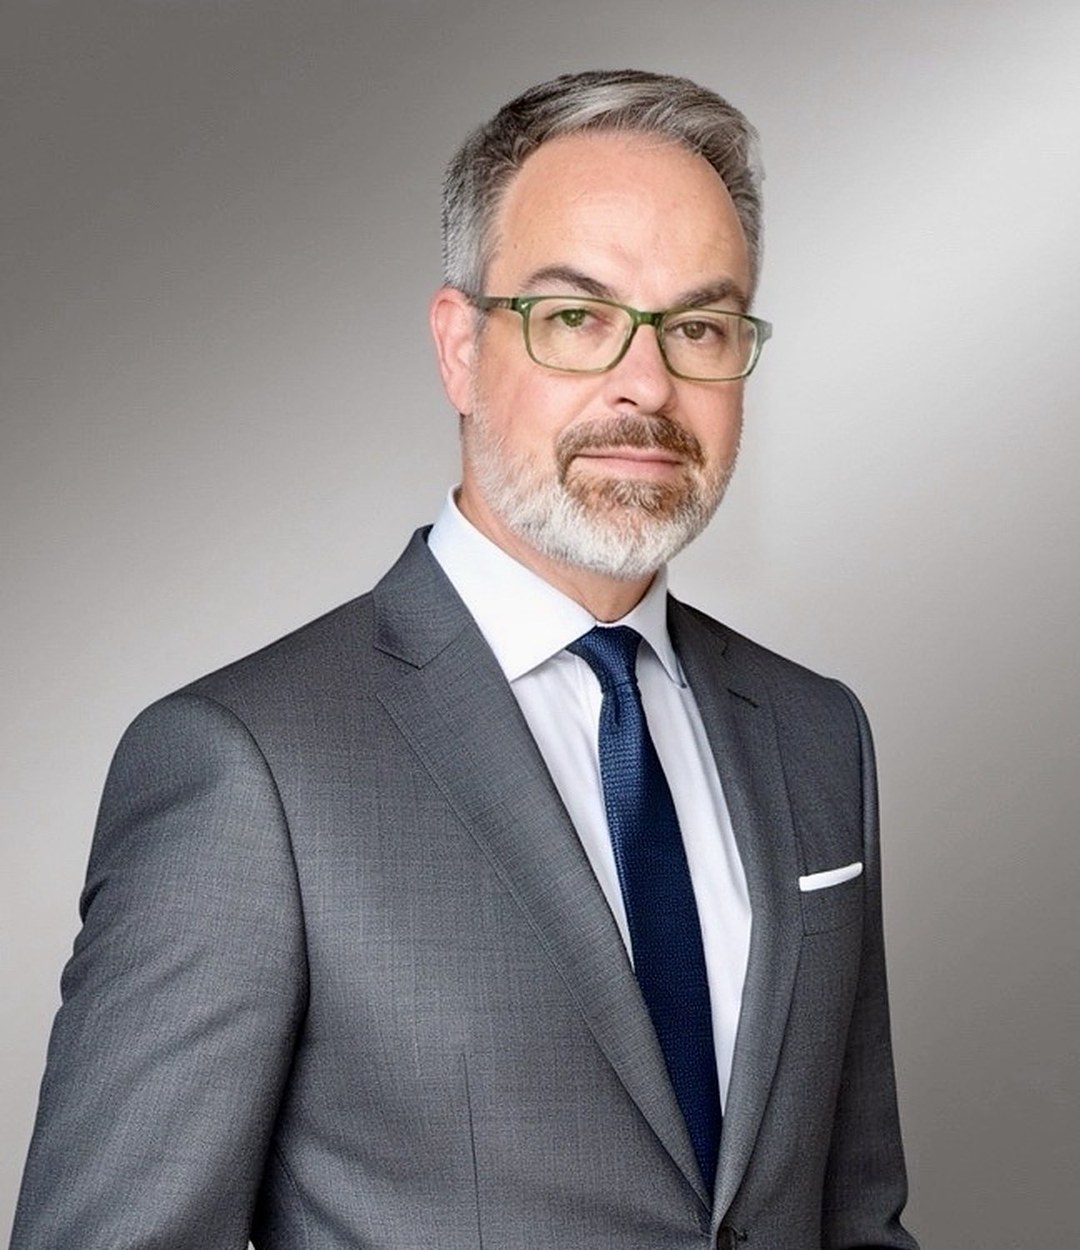
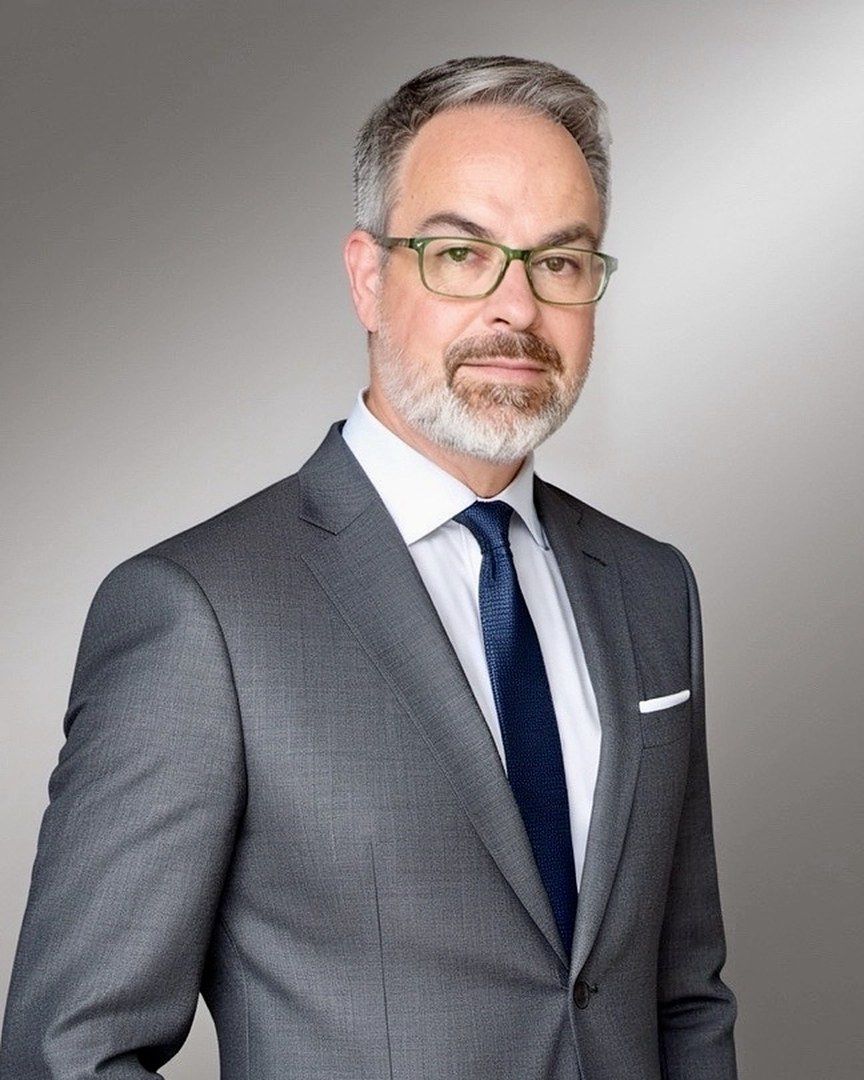
Site update 2026-11-11 18:14: fractional leadership page (v6 layout)

Changed region(s): [[0.0, 0.0306, 0.875, 1.0]]

diff --git a/index.html b/index.html
@@ -7,6 +7,7 @@
 <meta name="description" content="Fractional and interim executive leadership for transformation programs where platform decisions, revenue process and executive accountability have to move together.">
 <link rel="canonical" href="https://oursuccesscoach.com/">
 <link rel="icon" href="assets/our-success-coach-s-mark.svg" type="image/svg+xml">
+<meta name="theme-color" content="#071827">
 <meta property="og:title" content="Our Success Coach | Fractional executive leadership">
 <meta property="og:description" content="The executive your transformation is missing. Fractional and interim leadership for transformation programs.">
 <meta property="og:type" content="website">
@@ -16,93 +17,154 @@
 <link rel="preconnect" href="https://fonts.gstatic.com" crossorigin>
 <link href="https://fonts.googleapis.com/css2?family=Inter:ital,opsz,wght@0,14..32,100..900;1,14..32,100..900&display=swap" rel="stylesheet">
 <style>
-:root{--navy:#071827;--ink:#0A1B2E;--blue:#0D6EFD;--blue-d:#4C8DFF;--soft:#C5D2E0;--dim:#9FB0C3;--rule:rgba(255,255,255,.18)}
+:root{--navy:#071827;--navy2:#0D2A47;--ink:#0A1B2E;--blue:#0D6EFD;--blue-t:#0B63E5;--blue-d:#4C8DFF;--muted:#5F7185;--line:#D9E1EA;--pale:#F3F6F9}
 *{box-sizing:border-box;margin:0;padding:0}
 html{scroll-behavior:smooth}
-body{font-family:Inter,system-ui,-apple-system,"Segoe UI",sans-serif;background:var(--navy);color:#fff;line-height:1.5;-webkit-font-smoothing:antialiased}
+body{font-family:Inter,system-ui,-apple-system,"Segoe UI",sans-serif;color:var(--ink);background:#fff;line-height:1.55;-webkit-font-smoothing:antialiased}
 a{color:inherit}
-a:focus-visible{outline:3px solid var(--blue-d);outline-offset:3px;border-radius:3px}
-.split{display:grid;grid-template-columns:minmax(0,46fr) minmax(0,54fr);min-height:100vh}
-.text{padding:clamp(28px,4.5vh,56px) clamp(28px,4.4vw,72px);display:flex;flex-direction:column;position:relative}
-.logo{height:26px;width:auto;display:block;margin-bottom:18px}
-.main{margin:auto 0;padding:clamp(20px,3vh,36px) 0}
-.kicker{font-size:12.5px;font-weight:700;letter-spacing:.14em;text-transform:uppercase;color:var(--blue-d);display:flex;align-items:center;gap:10px}
-.kicker::before{content:"";width:9px;height:9px;border-radius:50%;background:var(--blue)}
-h1{font-size:clamp(34px,3.9vw,60px);line-height:1.03;font-weight:850;letter-spacing:-.025em;margin:16px 0 18px}
-h1 em{font-style:normal;color:var(--blue-d)}
-.lede{font-size:clamp(15.5px,1.2vw,18px);color:var(--soft);max-width:30em}
-nav{display:flex;gap:6px;margin:clamp(20px,3vh,32px) 0 0;padding:8px 0;border-top:1px solid var(--rule);border-bottom:1px solid var(--rule);font-size:14px;font-weight:650}
-nav a{padding:8px 16px 8px 0;margin-right:10px;text-decoration:none;min-height:40px;display:inline-flex;align-items:center}
-nav a:hover{color:var(--blue-d)}
-.roles{list-style:none;margin-top:clamp(18px,3vh,30px);border-top:1px solid var(--rule)}
-.roles li{display:grid;grid-template-columns:34px 1fr;padding:11px 0;border-bottom:1px solid var(--rule)}
-.roles .n{font-size:12px;font-weight:700;color:var(--blue-d);letter-spacing:.1em;padding-top:3px}
-.roles b{font-weight:700;font-size:16.5px;letter-spacing:-.005em}
-.roles span.d{grid-column:2;color:var(--dim);font-size:14.5px;line-height:1.45}
-.stats{display:grid;grid-template-columns:repeat(4,1fr);gap:14px;margin-top:clamp(18px,3vh,28px)}
-.stats b{display:block;font-size:clamp(24px,2.5vw,36px);font-weight:850;letter-spacing:-.03em;line-height:1;white-space:nowrap}
-.stats b i{font-style:normal;color:var(--blue-d)}
-.stats span{display:block;margin-top:6px;font-size:12.5px;color:var(--dim);line-height:1.35}
-.note{margin-top:10px;font-size:12.5px;color:var(--dim)}
-.cta{display:flex;flex-wrap:wrap;align-items:center;gap:14px 22px;margin-top:clamp(20px,3.2vh,32px)}
-.btn{display:inline-flex;align-items:center;justify-content:center;min-height:48px;padding:0 26px;border-radius:999px;background:var(--blue);color:#fff;font-weight:650;font-size:15px;text-decoration:none;transition:transform .15s,background .15s}
+a:focus-visible,button:focus-visible{outline:3px solid var(--blue);outline-offset:3px}
+.dark a:focus-visible{outline-color:var(--blue-d)}
+.wrap{max-width:1240px;margin:0 auto;padding:0 clamp(20px,4vw,56px)}
+
+/* hero */
+.dark{background:var(--navy);color:#fff;position:relative;overflow:hidden}
+.dark::before{content:"";position:absolute;right:-12%;top:-30%;width:70vw;height:70vw;max-width:900px;max-height:900px;border-radius:50%;background:radial-gradient(circle at 40% 40%,rgba(13,110,253,.28),rgba(13,110,253,0) 62%);pointer-events:none}
+nav{display:flex;align-items:center;justify-content:space-between;padding:26px 0;position:relative}
+nav img{height:26px;width:auto;display:block}
+.btn{display:inline-flex;align-items:center;justify-content:center;min-height:48px;padding:0 26px;border-radius:999px;background:var(--blue);color:#fff;font-weight:650;font-size:15px;text-decoration:none;border:0;transition:transform .15s,background .15s}
 .btn:hover{background:#2B7FFF;transform:translateY(-1px)}
-.cta .c{font-size:15px;color:var(--soft);line-height:1.5}
-.cta .c a{text-decoration:none;font-weight:650;color:#fff}
-.cta .c a:hover{color:var(--blue-d)}
-.legal{font-size:11.5px;line-height:1.5;color:#8496AB;border-top:1px solid var(--rule);padding-top:14px}
-.photo{position:relative;background:#B9BDC2;min-height:56vh}
-.photo img{position:absolute;inset:0;width:100%;height:100%;object-fit:cover;object-position:50% 8%;display:block}
-.photo figcaption{position:absolute;left:clamp(20px,3vw,40px);bottom:clamp(20px,3vw,36px);background:rgba(7,24,39,.86);padding:14px 18px;border-radius:4px;max-width:340px;font-size:13.5px;color:var(--soft);line-height:1.4}
-.photo figcaption b{display:block;color:#fff;font-size:16px;font-weight:700}
-@media (min-width:901px){.photo{position:sticky;top:0;height:100vh;align-self:start}}
-@media (max-width:900px){
- .split{grid-template-columns:1fr}
- .photo{order:-1;min-height:0;height:62vh;max-height:520px}
- .photo img{object-position:50% 10%}
- .text{padding-top:28px}
- .photo{margin-top:0}
+.btn.ghost{background:transparent;border:1.5px solid rgba(255,255,255,.35)}
+.btn.ghost:hover{background:rgba(255,255,255,.08)}
+.hero{display:grid;grid-template-columns:minmax(0,1.6fr) minmax(0,.5fr);gap:clamp(32px,6vw,96px);align-items:center;padding:clamp(28px,5vh,56px) 0 clamp(48px,8vh,80px);position:relative}
+.kicker{font-size:13px;font-weight:700;letter-spacing:.14em;text-transform:uppercase;color:var(--blue-d);display:flex;align-items:center;gap:10px}
+.kicker::before{content:"";width:9px;height:9px;border-radius:50%;background:var(--blue)}
+h1{font-size:clamp(40px,6.4vw,92px);line-height:1.0;font-weight:850;letter-spacing:-.025em;margin:22px 0 26px}
+h1 em{font-style:normal;color:var(--blue-d)}
+.lede{font-size:clamp(17px,1.5vw,21px);color:#C5D2E0;max-width:36em;font-weight:400}
+.ctas{display:flex;flex-wrap:wrap;gap:12px;margin-top:34px}
+.who{justify-self:end;width:100%;max-width:250px}
+.who img{display:block;width:100%;height:auto;aspect-ratio:4/5;object-fit:cover;object-position:50% 12%;border-radius:6px;box-shadow:0 30px 60px -20px rgba(0,0,0,.6)}
+.who p{margin-top:14px;font-size:14px;color:#C5D2E0;line-height:1.45}
+.who b{display:block;color:#fff;font-weight:700;font-size:16px}
+
+/* offer */
+.offer{padding:clamp(56px,9vh,96px) 0 clamp(40px,6vh,64px)}
+.offer h2{font-size:clamp(28px,3.4vw,46px);line-height:1.08;font-weight:800;letter-spacing:-.018em;max-width:20em}
+.offer .sub{color:var(--muted);margin-top:14px;max-width:40em;font-size:18px}
+.roles{display:grid;grid-template-columns:repeat(4,1fr);gap:0;margin-top:44px;border-top:2px solid var(--ink)}
+.role{padding:26px 28px 8px 0}
+.role+.role{padding-left:28px;border-left:1px solid var(--line)}
+.role .n{font-size:13px;font-weight:700;color:var(--blue-t);letter-spacing:.1em}
+.role h3{font-size:21px;line-height:1.2;font-weight:750;letter-spacing:-.01em;margin:10px 0 10px}
+.role p{color:var(--muted);font-size:15.5px}
+
+/* proof */
+.proof{background:var(--pale);padding:clamp(40px,6vh,64px) 0}
+.stats{display:grid;grid-template-columns:repeat(4,1fr);gap:28px}
+.stat b{display:block;font-size:clamp(40px,4.6vw,64px);font-weight:850;letter-spacing:-.03em;line-height:1;color:var(--ink);white-space:nowrap}
+.stat b i{font-style:normal;color:var(--blue-t)}
+.stat span{display:block;margin-top:10px;font-size:15px;color:var(--muted);max-width:15em}
+.note{margin-top:30px;font-size:14px;color:var(--muted)}
+
+/* close */
+.close{padding:clamp(48px,8vh,84px) 0}
+.close .grid{display:grid;grid-template-columns:minmax(0,1.3fr) minmax(0,1fr);gap:clamp(28px,6vw,96px);align-items:center}
+.close h2{font-size:clamp(28px,3.4vw,46px);line-height:1.08;font-weight:800;letter-spacing:-.018em}
+.box{border:1px solid var(--line);border-radius:10px;padding:28px}
+.box a.mail{display:block;font-size:clamp(20px,2vw,26px);font-weight:750;letter-spacing:-.01em;text-decoration:none;color:var(--ink);overflow-wrap:anywhere}
+.box a.mail:hover{color:var(--blue-t)}
+.box .tel{display:block;margin:6px 0 22px;color:var(--muted);text-decoration:none;font-size:17px}
+
+footer{background:var(--navy);color:#9FB0C3;padding:28px 0;font-size:13px;line-height:1.6}
+
+@media (max-width:980px){
+ .roles{grid-template-columns:repeat(2,1fr)}
+ .role:nth-child(3){padding-left:0;border-left:0}
+ .role:nth-child(n+3){border-top:1px solid var(--line);margin-top:18px;padding-top:26px}
+ .stats{grid-template-columns:repeat(2,1fr)}
+}
+@media (max-width:760px){
+ .hero{grid-template-columns:1fr;gap:36px}
+ .who{justify-self:start;max-width:240px}
+ .close .grid{grid-template-columns:1fr}
+ nav .btn{min-height:46px;padding:0 20px}
 }
 @media (max-width:560px){
- .stats{grid-template-columns:repeat(2,1fr);gap:20px 14px}
- .btn{width:100%}
- nav{flex-wrap:wrap}
+ .roles{grid-template-columns:1fr}
+ .role,.role+.role{padding:22px 0 6px;border-left:0}
+ .role+.role{border-top:1px solid var(--line)}
+ .role:nth-child(3){margin-top:0}
+ .role:nth-child(n+3){margin-top:0}
+ .ctas .btn{width:100%}
 }
 @media (prefers-reduced-motion:reduce){*{transition:none!important;scroll-behavior:auto!important}.btn:hover{transform:none}}
 </style>
 </head>
 <body>
-<div class="split">
- <section class="text">
-  <a href="#top" aria-label="Our Success Coach, home" style="align-self:flex-start"><img class="logo" src="assets/our-success-coach-wordmark-white.svg" alt="Our Success Coach"></a>
-  <div class="main" id="top">
-   <p class="kicker">Fractional executive leadership</p>
-   <h1>The executive your transformation is <em>missing.</em></h1>
-   <p class="lede">Fractional and interim leadership for programs where platform decisions, revenue process and executive accountability have to move together. Not staff augmentation. Not another layer of project management.</p>
-   <ul class="roles" id="roles">
-    <li><span class="n">01</span><b>Fractional CIO or CISO</b></li>
-    <li><span class="n">02</span><b>Transformation executive</b></li>
-    <li><span class="n">03</span><b>Program governance lead</b></li>
-    <li><span class="n">04</span><b>Data protection officer</b></li>
-   </ul>
-   <div class="stats" id="results">
-    <div><b>22</b><span>operating companies across four regions</span></div>
-    <div><b>200<i>+</i></b><span>programs under one governance model</span></div>
-    <div><b>225<i>%</i></b><span>revenue growth with margin expansion</span></div>
-    <div><b>$30<i>M</i></b><span>technology budget and portfolio</span></div>
+<header class="dark">
+ <div class="wrap">
+  <nav aria-label="Primary">
+   <a href="#top" aria-label="Our Success Coach, home"><img src="assets/our-success-coach-wordmark-white.svg" alt="Our Success Coach"></a>
+   <a class="btn" href="#contact">Book a conversation</a>
+  </nav>
+  <section class="hero" id="top">
+   <div>
+    <p class="kicker">Fractional executive leadership</p>
+    <h1>The executive your transformation is <em>missing.</em></h1>
+    <p class="lede">Fractional and interim leadership for programs where platform decisions, revenue process and executive accountability have to move together. Not staff augmentation. Not another layer of project management.</p>
+    <div class="ctas">
+     <a class="btn" href="#contact">Book a conversation</a>
+     <a class="btn ghost" href="#roles">See the roles</a>
+    </div>
    </div>
-   <p class="note">Results from executive roles held. Client and employer names stay confidential.</p>
-   <div class="cta" id="contact">
-    <a class="btn" href="mailto:tim@oursuccesscoach.com?subject=Conversation">Book a conversation</a>
-    <p class="c"><a href="mailto:tim@oursuccesscoach.com">tim@oursuccesscoach.com</a><br><a href="tel:+351960289031" style="font-weight:500;color:var(--soft)">+351 960 289 031</a></p>
+   <figure class="who">
+    <img src="assets/tim-portrait.jpg" alt="Tim Purdie, Principal, Our Success Coach" width="864" height="1080">
+    <p><b>Tim Purdie</b>Principal. Enterprise transformation executive across ERP, Salesforce, cloud, cybersecurity governance and operating model design.</p>
+   </figure>
+  </section>
+ </div>
+</header>
+
+<main>
+ <section class="offer" id="roles">
+  <div class="wrap">
+   <h2>Senior leadership, embedded for as long as the program needs it.</h2>
+   <p class="sub">Four seats a program tends to be missing, filled by an executive who has held each one.</p>
+   <div class="roles">
+    <article class="role"><span class="n">01</span><h3>Fractional CIO or CISO</h3><p>Technology strategy, budget, security governance and vendor accountability at the executive table.</p></article>
+    <article class="role"><span class="n">02</span><h3>Transformation executive</h3><p>Revenue, platform and operating model decisions owned in one place, from quote to cash to adoption.</p></article>
+    <article class="role"><span class="n">03</span><h3>Program governance lead</h3><p>One governance model across every workstream, so decisions move and benefits are measured.</p></article>
+    <article class="role"><span class="n">04</span><h3>Data protection officer</h3><p>Privacy and governance frameworks that satisfy regulators and survive an acquisition.</p></article>
    </div>
   </div>
-  <p class="legal">OUR SUCCESS COACH, UNIPESSOAL LDA. · Registered at the Conservatória do Registo Comercial de Lisboa · NIPC / Matrícula 519643143 · Share capital €1,000 · Registered office: Rua Principal do Casal Viegas, n.º 228, 3240-214 Ansião, Portugal</p>
  </section>
- <figure class="photo">
-  <img src="assets/tim-portrait.jpg" alt="Tim Purdie, Principal, Our Success Coach" width="1080" height="1250">
-  <figcaption><b>Tim Purdie</b>Principal. Enterprise transformation across ERP, Salesforce, cloud, cybersecurity governance and operating model design.</figcaption>
- </figure>
-</div>
+
+ <section class="proof" aria-label="Results">
+  <div class="wrap">
+   <div class="stats">
+    <div class="stat"><b>22</b><span>operating companies led across Canada, the EU, Latin America and Africa</span></div>
+    <div class="stat"><b>200<i>+</i></b><span>global programs run under one governance model</span></div>
+    <div class="stat"><b>225<i>%</i></b><span>revenue growth with margin expansion</span></div>
+    <div class="stat"><b>$30<i>M</i></b><span>technology budget and global transformation portfolio</span></div>
+   </div>
+   <p class="note">Results from executive roles held. Client and employer names stay confidential.</p>
+  </div>
+ </section>
+
+ <section class="close" id="contact">
+  <div class="wrap grid">
+   <h2>Start with a conversation about what the program needs at the top.</h2>
+   <div class="box">
+    <a class="mail" href="mailto:tim@oursuccesscoach.com">tim@oursuccesscoach.com</a>
+    <a class="tel" href="tel:+351960289031">+351 960 289 031</a>
+    <a class="btn" href="mailto:tim@oursuccesscoach.com?subject=Conversation">Book a conversation</a>
+   </div>
+  </div>
+ </section>
+</main>
+
+<footer>
+ <div class="wrap">OUR SUCCESS COACH, UNIPESSOAL LDA. · Registered at the Conservatória do Registo Comercial de Lisboa · NIPC / Matrícula 519643143 · Share capital €1,000 · Registered office: Rua Principal do Casal Viegas, n.º 228, 3240-214 Ansião, Portugal</div>
+</footer>
 </body>
 </html>
